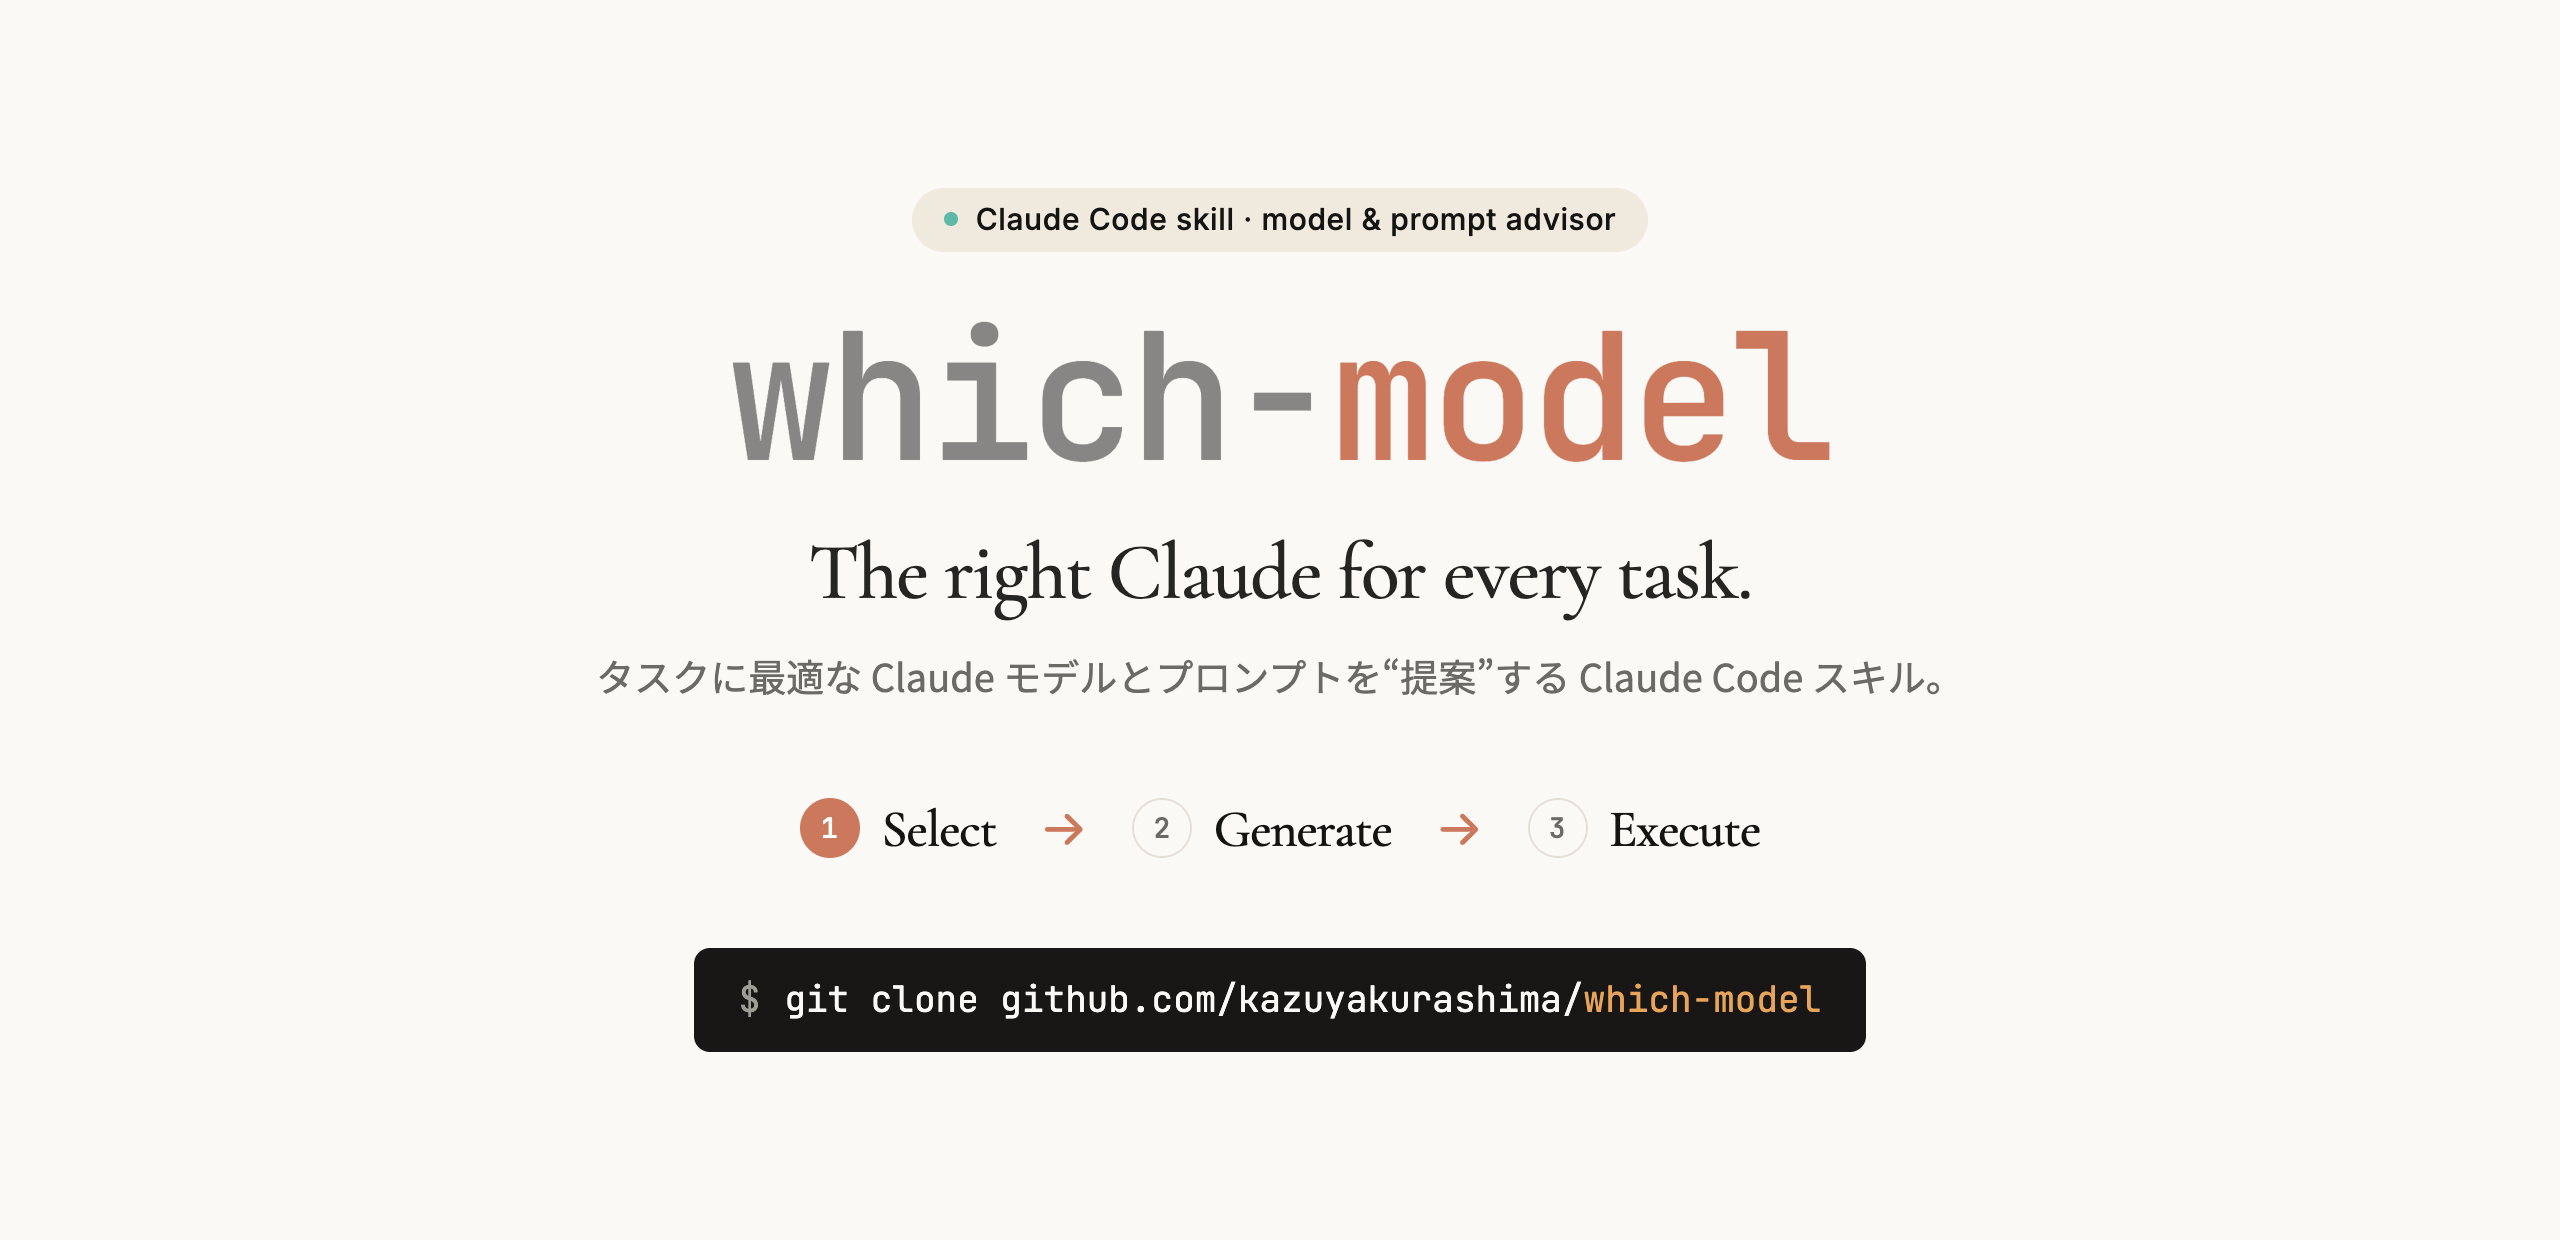
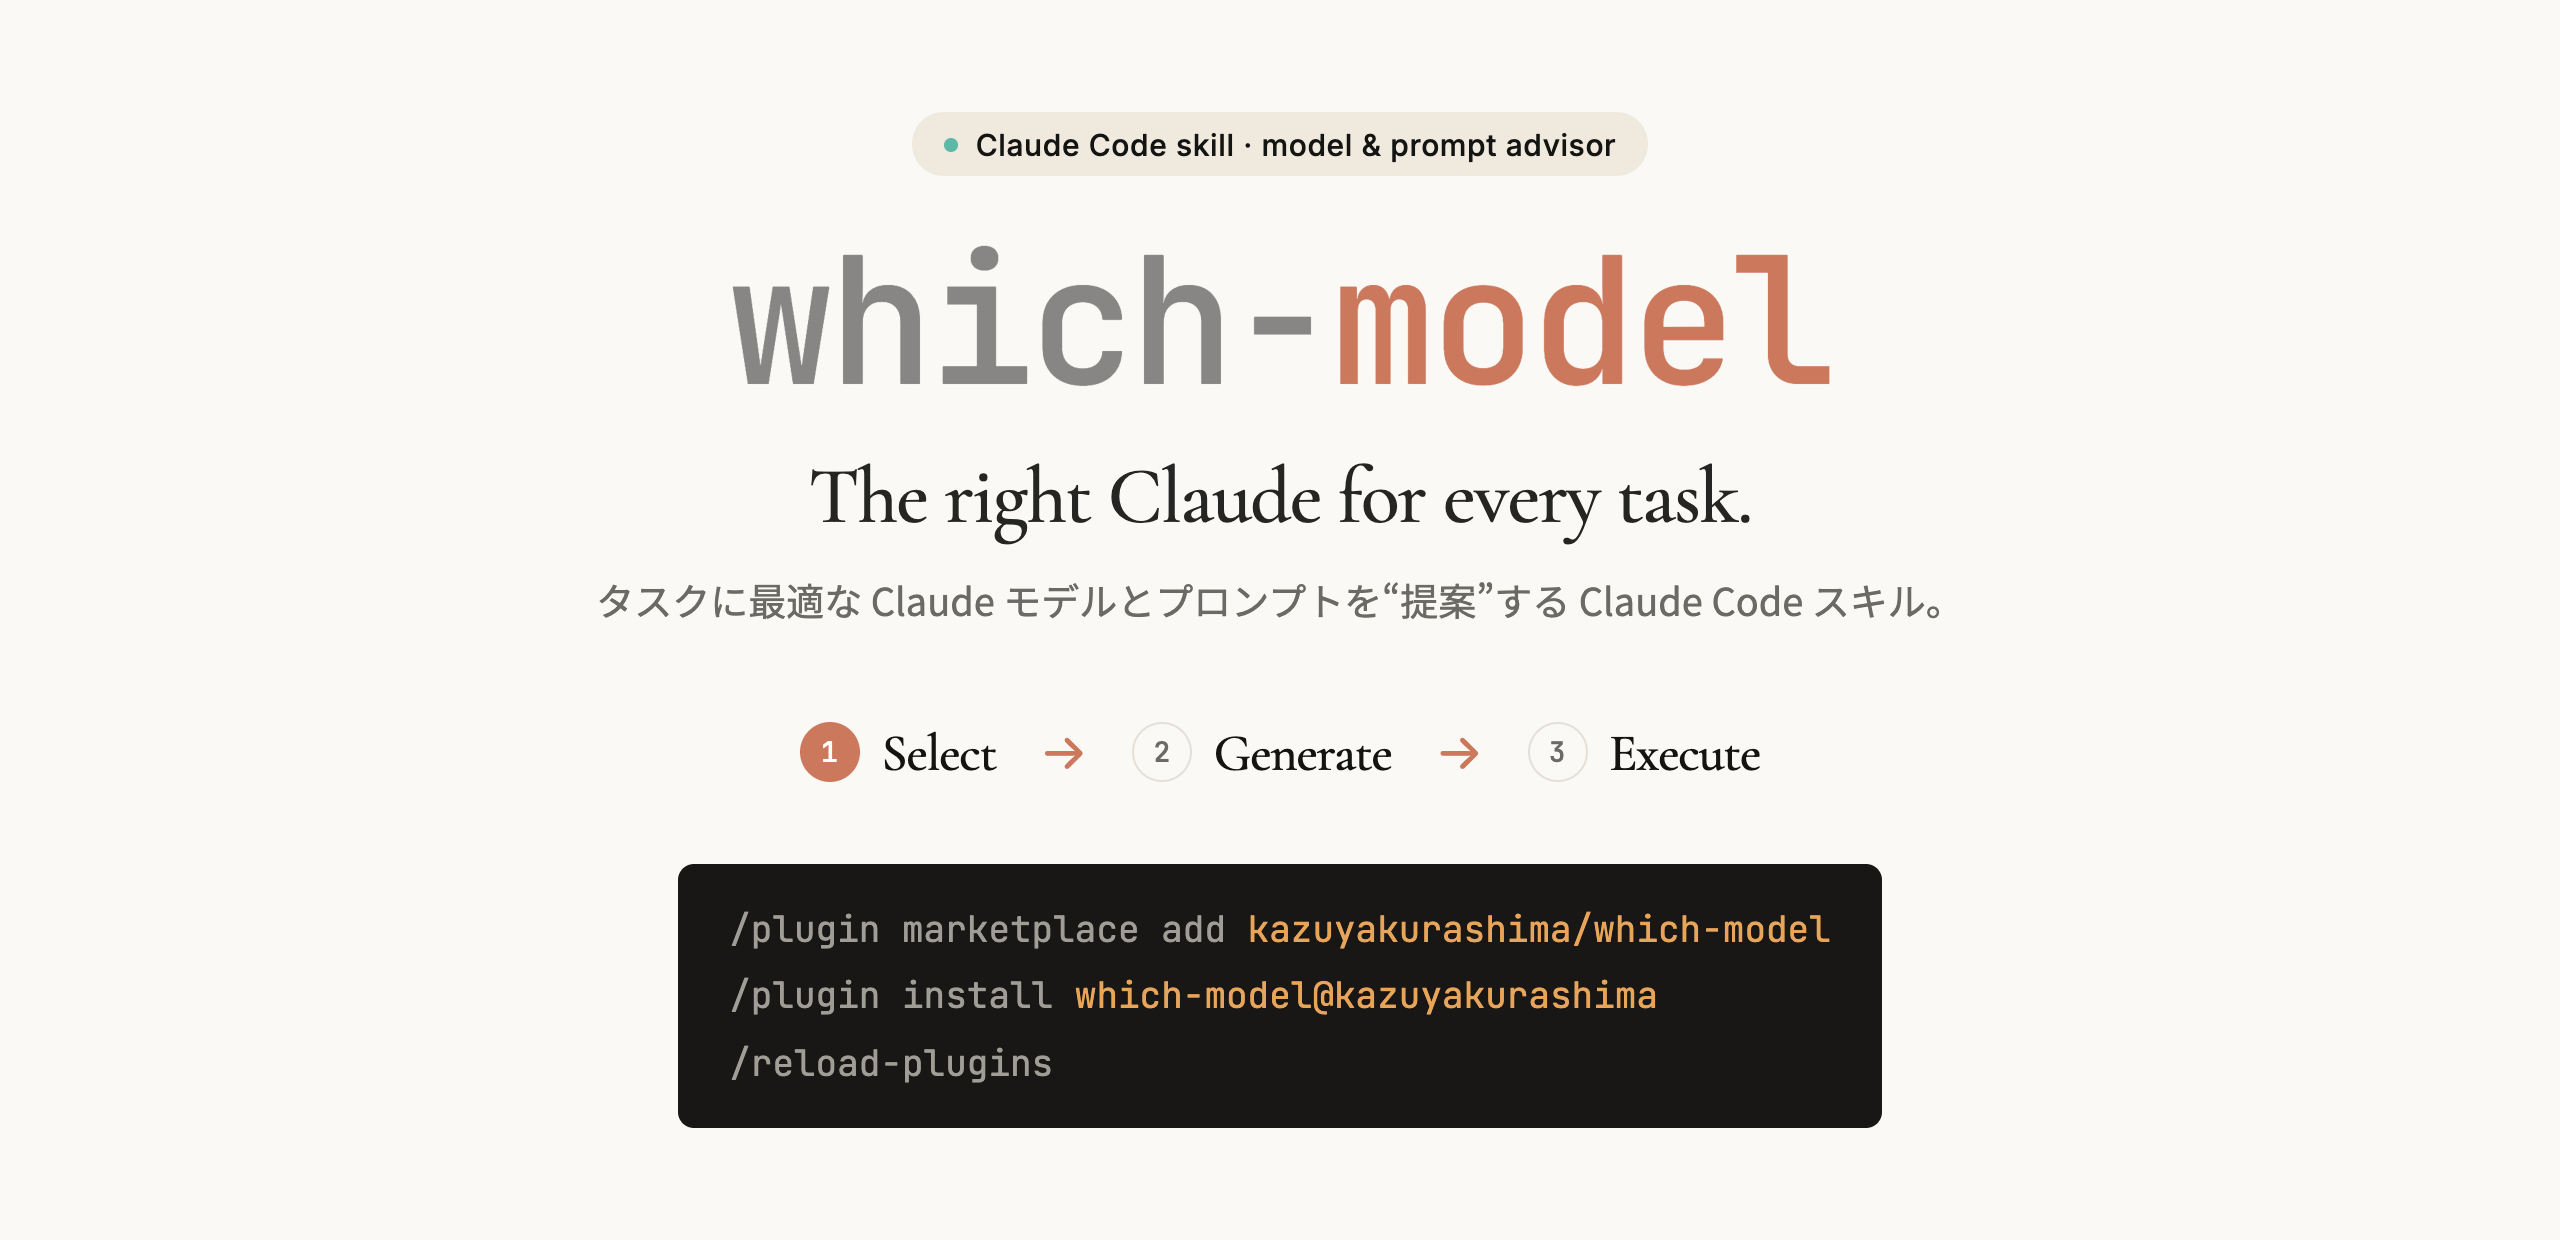
Update the hero image to the plugin install commands
The hero still showed "$ git clone github.com/kazuyakurashima/which-model" —
the 3.9.0 install path. The first image a visitor sees was teaching a method
4.0.0 no longer uses.

It now shows the three commands from the quickstart, without a shell prompt
since these are typed inside Claude Code, not a terminal. /reload-plugins is
included deliberately: dogfooding showed that leaving it out is exactly what
makes people hit "Unknown command" and think the plugin is broken.

Also rewrite the alt text, which described a flow diagram the image has never
contained. It now describes the actual hero: the badge, title, tagline, the
Select/Generate/Execute steps, and the install commands.

diff --git a/README.md b/README.md
@@ -17,7 +17,7 @@
 
 </div>
 
-![概要図：/which-model:pick に指示を打つと、タスク判定・モデル選定・effort・プロンプト最適化を行い、①推奨モデルと②最適化プロンプトを提示する。モデルの切替と実行は常にユーザーが行う](docs/images/hero-overview.png)
+![which-model のヒーロー画像。「Claude Code skill · model & prompt advisor」のバッジ、タイトル which-model、「The right Claude for every task.」、「タスクに最適な Claude モデルとプロンプトを"提案"する Claude Code スキル。」、Select → Generate → Execute の3ステップ、そしてインストールコマンド（/plugin marketplace add kazuyakurashima/which-model、/plugin install which-model@kazuyakurashima、/reload-plugins）が並んでいる](docs/images/hero-overview.png)
 
 <div align="center">
 
